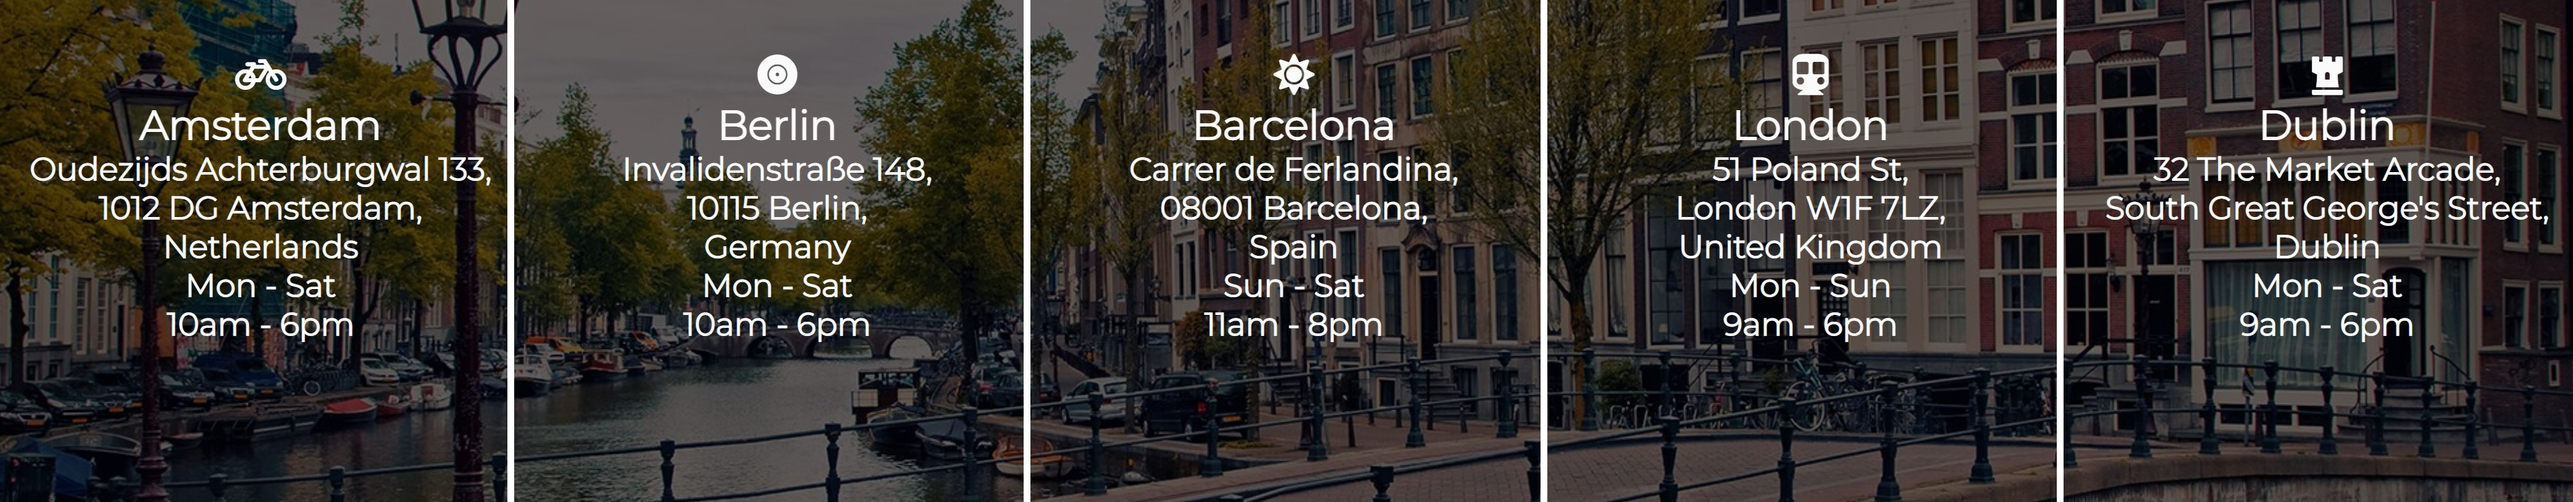
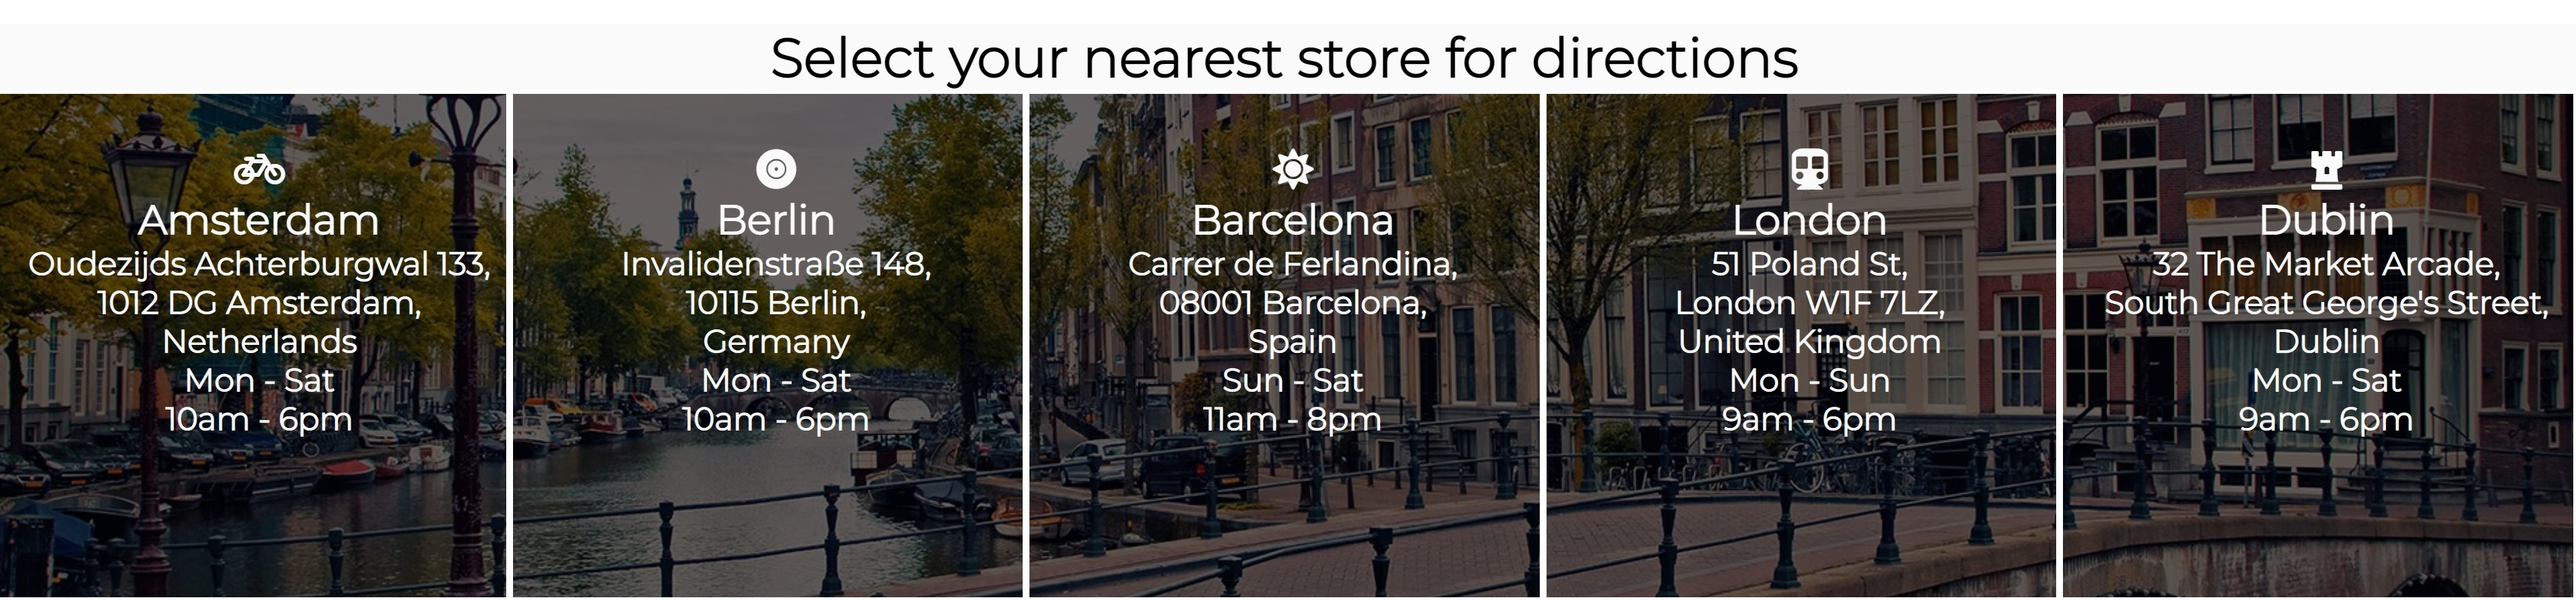
add header to physical locations section and style

diff --git a/assets/css/style.css b/assets/css/style.css
@@ -211,6 +211,19 @@ hr {
     overflow: hidden;
 }
 
+#locations-about {
+    text-align: center;
+    font-size: 200%;
+    width: 100%;
+    overflow: hidden;
+    color:black;
+    background-color:#fafafa;
+    
+    position:relative;
+    height: 300%;
+    float: left;
+    
+}
 /* footer */
 
 footer {
@@ -410,6 +423,12 @@ footer {
     }
 
     #browse-about {
+        font-size: small;
+        margin: 0;
+        text-align: center;
+    }
+
+    #locations-about {
         font-size: small;
         margin: 0;
         text-align: center;

diff --git a/index.html b/index.html
@@ -83,6 +83,9 @@
         </div>
     </section>
     <section id="locations">
+        <section>
+            <h3 id="locations-about">Select your nearest store for directions</h3>
+        </section>
         <a href="https://www.google.com/maps/place/Oudezijds+Achterburgwal+133,+1012+DG+Amsterdam,+Netherlands/@52.3719181,4.8953648,17z/data=!3m1!4b1!4m5!3m4!1s0x47c609bf33c2630d:0x526670a62e98bf2!8m2!3d52.3719181!4d4.8975535"
             target="_blank" id="amsterdam">
             <div>

diff --git a/README.md b/README.md
@@ -27,7 +27,7 @@
 
 ## Physical locations section
 
-#### This section will allow the user to see where the mockup physical stores are located, with related city icons, addresses and opening hours in each column. Each section will be anchored to launch Google Maps in a new tab when clicked. This section will be updated as these times change to keep the user up to date.
+#### This section will allow the user to see where the mockup physical stores are located, with related city icons, addresses and opening hours in each column. Each section will be anchored to launch Google Maps in a new tab when clicked. This section will be updated as these times change to keep the user up to date. There is also a header to direct the users attention towards the maps function for directions.
 
 ![Physical locations image](assets/images/physical-locations.jpg)
 
